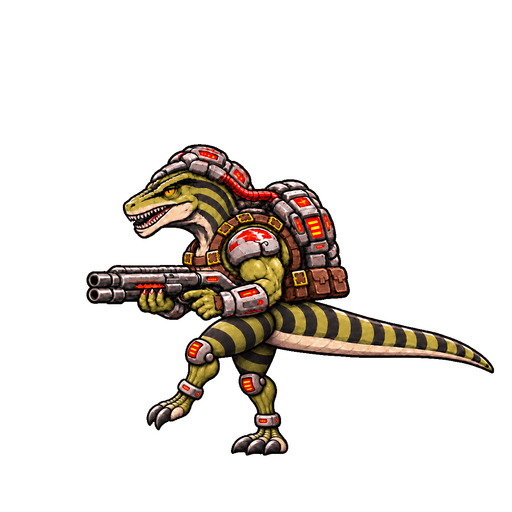
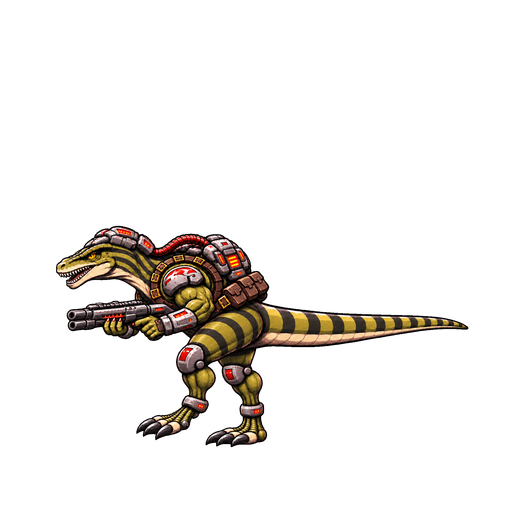
39T7.4: preserve anatomical scale across side gaits and right baseball slide

Changed region(s): [[0.0938, 0.2812, 0.9688, 0.9062]]

diff --git a/public/raptor-animation-review.html b/public/raptor-animation-review.html
@@ -18,13 +18,13 @@ async function start(){
   image.onload=()=>{if(image.naturalWidth!==512||image.naturalHeight!==512)return reject(Error(key+' has wrong dimensions'));images.set(key,image);loaded++;resolve()};
   image.onerror=()=>reject(Error('Failed to load '+key));image.src='/assets/raptor-v2/'+key+'?v='+inventory.build;
  })));
- for(const direction of inventory.directions){const figure=document.createElement('figure'),canvas=document.createElement('canvas'),caption=document.createElement('figcaption');canvas.width=320;canvas.height=300;caption.textContent=direction;figure.append(canvas,caption);grid.append(figure);views.push({direction,canvas,caption})}
+ for(const direction of inventory.directions){const figure=document.createElement('figure'),canvas=document.createElement('canvas'),caption=document.createElement('figcaption');canvas.width=384;canvas.height=320;caption.textContent=direction;figure.append(canvas,caption);grid.append(figure);views.push({direction,canvas,caption})}
  status.textContent=inventory.build+' · '+loaded+' frames loaded · Slide frames show entry, hold, recovery';requestAnimationFrame(draw);
 }
 function draw(time){
  if(!paused&&time-last>1000/Number(rate.value)){frame++;last=time}
  const family=action.value,index=frame%inventory.counts[family];
- for(const view of views){const key=`${family}/${view.direction}/${String(index).padStart(3,'0')}.png`,record=inventory.frames[key],g=view.canvas.getContext('2d');g.clearRect(0,0,320,300);g.strokeStyle='#547180';g.beginPath();g.moveTo(0,245);g.lineTo(320,245);g.stroke();if(!record){view.caption.textContent=view.direction+' · '+family+' artwork pending';continue}const anchor=record.anchor;g.drawImage(images.get(key),160-anchor[0]*.6,245-anchor[1]*.6,307.2,307.2);view.caption.textContent=view.direction+' · '+(index+1)+'/'+inventory.counts[family]}
+ for(const view of views){const key=`${family}/${view.direction}/${String(index).padStart(3,'0')}.png`,record=inventory.frames[key],g=view.canvas.getContext('2d');g.clearRect(0,0,384,320);g.strokeStyle='#547180';g.beginPath();g.moveTo(0,270);g.lineTo(384,270);g.stroke();if(!record){view.caption.textContent=view.direction+' · '+family+' artwork pending';continue}const anchor=record.anchor,authored=record.drawScale,scale=.5*(Number.isFinite(authored)&&authored>0?authored:1);g.drawImage(images.get(key),192-anchor[0]*scale,270-anchor[1]*scale,512*scale,512*scale);view.caption.textContent=view.direction+' · '+(index+1)+'/'+inventory.counts[family]}
  requestAnimationFrame(draw);
 }
 start().catch(error=>{status.textContent=error.message;status.style.color='#ff8b8b'});

diff --git a/lib/raptorSpriteOnly.ts b/lib/raptorSpriteOnly.ts
@@ -13,6 +13,16 @@ export type RaptorFamily=keyof typeof RAPTOR_COUNTS;
 const postureDirections:readonly string[]=inventory.postureDirections;
 const hasPostures=(angle:number)=>postureDirections.includes(selectRaptorDirection(angle));
 export type RaptorVisualState={x:number;y:number;angle:number;speed:number;sliding:boolean;airborne:boolean;hit:boolean;firing:boolean;time:number;scale:number;slideRemaining?:number;slideDuration?:number;attached?:boolean;actorId?:string;worldX?:number;worldY?:number;travelAngle?:number};
+export type RaptorRegistration={anchor:number[];drawScale?:number};
+/** Uniform authored-scale compensation; anchors remain pinned to the same world point.
+ * Wide slide poses can use more texture space without shrinking their torso in game.
+ * Legacy frames without metadata retain their exact previous placement.
+ */
+export function raptorSpritePlacement(state:Pick<RaptorVisualState,"x"|"y"|"scale">,record:RaptorRegistration){
+ const authored=record.drawScale;
+ const scale=state.scale*(typeof authored==="number"&&Number.isFinite(authored)&&authored>0?authored:1);
+ return {x:state.x-record.anchor[0]*scale,y:state.y-record.anchor[1]*scale,size:512*scale};
+}
 // World-space samples exclude camera motion, elevation and cover presentation offsets.
 const gaitMemory=new Map<string,{time:number;x?:number;y?:number;phase:number;sprinting:boolean;jogging:boolean;airborne:boolean;landedAt:number}>();
 export const RAPTOR_STRIDE_DISTANCE=100;
@@ -121,8 +131,8 @@ export function paintRaptorSprite(g:CanvasRenderingContext2D,state:RaptorVisualS
  if(img?.complete&&img.naturalWidth===512&&img.naturalHeight===512){
    const traceKey=direction+" / "+artAction+(state.firing?" + fire":"");
    const seen=animationTrace.get(traceKey)||new Set<number>();seen.add(artFrame);animationTrace.set(traceKey,seen);
-   const anchor=inventory.frames[key].anchor;
-   g.drawImage(img,state.x-anchor[0]*state.scale,state.y-anchor[1]*state.scale,512*state.scale,512*state.scale);
+   const placement=raptorSpritePlacement(state,inventory.frames[key] as RaptorRegistration);
+   g.drawImage(img,placement.x,placement.y,placement.size,placement.size);
    return true;
  }
  // Explicit missing-art marker; NEVER impersonate the approved Raptor with a skeletal rig.

diff --git a/app/studio/character-lab/page.tsx b/app/studio/character-lab/page.tsx
@@ -23,13 +23,13 @@ export default function CombatLab(){
  return <main style={{minHeight:"100vh",background:"#08101b",color:"#f5fbff",fontFamily:"Arial",padding:"max(25px,env(safe-area-inset-top)) 20px"}}>
   <div style={{maxWidth:800,margin:"auto"}}>
    <a href="/studio" style={{color:"#89e9f2"}}>← BACK TO STUDIO</a>
-   <p style={{color:"#ff8d9e",letterSpacing:2,fontSize:12}}>GOD MODE / BUILD 39T7.3 PLAYTEST</p>
+   <p style={{color:"#ff8d9e",letterSpacing:2,fontSize:12}}>GOD MODE / BUILD 39T7.4 PLAYTEST</p>
    <h1>COMBAT LAB</h1>
    <a href="/raptor-animation-review.html" style={{color:"#89e9f2"}}>Review all run and slide frames</a>
    <p>Both fighters use the newer XYZ combat engine. This is a test build, not a production character unlock.</p>
    <div style={{display:"grid",gridTemplateColumns:"repeat(auto-fit,minmax(230px,1fr))",gap:14,marginTop:25}}>
     <button style={button} onClick={()=>setFighter("jade")}>JADE <small style={{display:"block",fontWeight:400,marginTop:10}}>Existing gameplay baseline</small></button>
-    <button disabled={artReady!==true} style={{...button,borderColor:"#ff925e",opacity:artReady?1:.5}} onClick={()=>setFighter("raptor")}>RAPTOR V2 <small style={{display:"block",fontWeight:400,marginTop:10}}>{artReady===null?"Loading Raptor artwork…":artReady?"Right anatomy correction · Other directions under review":"Artwork failed to load — reload to retry"}</small></button>
+    <button disabled={artReady!==true} style={{...button,borderColor:"#ff925e",opacity:artReady?1:.5}} onClick={()=>setFighter("raptor")}>RAPTOR V2 <small style={{display:"block",fontWeight:400,marginTop:10}}>{artReady===null?"Loading Raptor artwork…":artReady?"Side gait and right slide corrections · Other views under review":"Artwork failed to load — reload to retry"}</small></button>
    </div>
    <p style={{color:"#f5bf8e",fontSize:13,marginTop:24}}>Standing now has dedicated artwork in all eight directions. Left- and right-facing movement have distinct stalking, jogging, and sprint poses; the other six slow gaits remain provisional. Use the pace selector with keyboard or touch to review the transitions. Controller stick pressure remains analog. Moving fire follows aim.</p>
   </div>

diff --git a/docs/raptor-39t7-anatomy-audit.md b/docs/raptor-39t7-anatomy-audit.md
@@ -58,3 +58,13 @@ Counts for this correction pass: 0 production-accepted, 0 runtime-installed, 0 g
 ## 39T7.3 right-direction pilot update
 Single-frame leg edits resolved the paired-sheet neck/chest drift for the right jog. Selected jog sources: right-jog-contact-master.png (top crop of exec-a437392e-7b7c-4a08-9881-1599185640d1.png), exec-30f9581b-fb85-4aa3-92d2-39fec01b83ea.png, exec-06cea895-3830-4e22-8c9c-8b60122d2d6b.png, exec-2c41006b-49f1-4275-a381-a25c08b0852f.png.
 Nine right assets (idle1/stalk4/jog4) passed static visual review for the isolated pilot and local file validation. All512x512, SHA256 matches, alpha borders clear. Gait/hysteresis/moving-fire/slide-recovery selection tests passed. No movement/input code changed. Manifest build39T7.3. This supersedes the earlier zero-accepted status for those9 only. Live gameplay acceptance remains pending; all other unresolved inventory above remains open. Do not call the overall anatomy correction complete.
+
+## 39T7.3 live verification
+Railway deployment1487a919-fa76-4706-8a06-b2b0eb975fed SUCCESS at3e2b6425d336943839860f27cc8007101eaf819d. Fresh lab shows39T7.3; review loaded112 runtime paths. Normal touch produced right stalk0,1,2,3 and jog0,1,2,3; moving fire produced right jog+fire0,1,2,3. Supported doubletap produced right slide0,1,2 and returned to two-foot standing. Screenshot proof /workspace/scratch/raptor-39t7-3-right-live-proof.jpg. Static/trace evidence is not a full visual transition pass: older slide silhouette and shorter tail disagree with corrected locomotion. No physical controller tested.
+
+## 39T7.4 staged correction
+12 additional replacement PNGs: left idle1/stalk4/jog4; right slide3. All512x512, SHA256 validated, clear alpha borders. Right new idle/stalk/jog anchors adjusted by pelvis/ground landmark inspection. Renderer and review now honor optional uniform drawScale, preserving legacy frames when absent. Wide slide poses retain torso size despite fitting complete tail/extended leg in512texture. Tests cover legacy placement, pinned world anchors with authored scale, invalid scale fallback, and existing gait/hysteresis/fire/slide selection. Movement/collision/input/slide timing untouched.
+Left stalk sources in phase order: exec-7b70966f-7fc6-4d91-a7a3-d80ed84defbf.png; exec-ab550d17-c5bc-49e8-9379-079534743077.png; exec-7f873bc4-854c-4876-84ff-1e0796eb0134.png; exec-720616f7-6996-4d7a-9e7f-b121c03a34c1.png.
+Left jog sources: exec-77b7066c-80dc-40ef-a593-6c769624bcab.png; exec-98640525-c515-4ceb-9f55-0b1de6b05252.png; exec-f765587b-11ad-4387-917b-d81df6b47dd6.png; exec-7ef906e1-d7bc-4e78-ad23-46169d38c8af.png.
+Right slide sources: exec-84f8e288-449d-4ca4-aced-1a72e68a46b8.png; exec-4f336645-0516-4e94-8d97-f965dd55e038.png; exec-fbb19a17-2e1c-49a6-b8c1-8d3d6906447a.png.
+Right corrected inventory now idle1/stalk4/jog4/slide3; left corrected idle1/stalk4/jog4. Total21 corrected PNGs across39T7.3/4; overall unique runtime image count remains80 plus32 aliases=112paths. These are pilot corrections, not complete acceptance of all directions. New39T7.4 gameplay verification pending. Other6stalk/jog directions remain48missing images; frontdiagonal sprint8 still requires thigh/proportion correction, rear scale/camera consistency and all other slide transitions remain open. Preserve checkpoint/39t7-3-before-registration.
